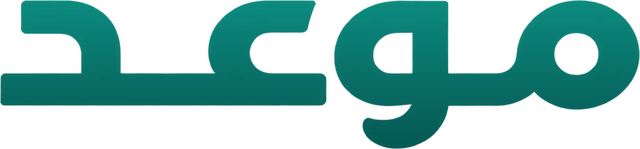
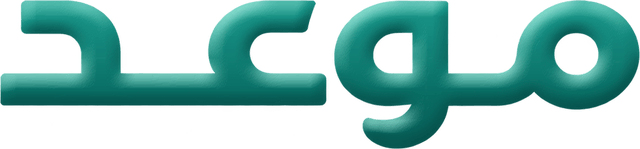
Wordmark lit like the symbol
The symbol is lit from above (mint on its upper slopes, deep teal
beneath) while the word was a flat gradient, so the pair read as two
different finishes (owner: the shine is on the logo and missing from the
name). The letters are now shaded as a soft relief under the same light,
in colours sampled from the symbol. The offline cache is bumped so
installed apps drop the old picture.

diff --git a/public/sw.js b/public/sw.js
@@ -16,7 +16,7 @@
 // (SplashIntro) repeats the native splash and must have its picture on the
 // very first frame, even on a slow connection. Their names carry no hash,
 // so replacing any of them means bumping CACHE.
-const CACHE = "maw3ed-offline-v3";
+const CACHE = "maw3ed-offline-v4"; // v4: wordmark lit like the symbol
 const OFFLINE_URL = "/offline.html";
 const BRAND_ASSETS = [
   "/brand/splash-symbol.webp",
